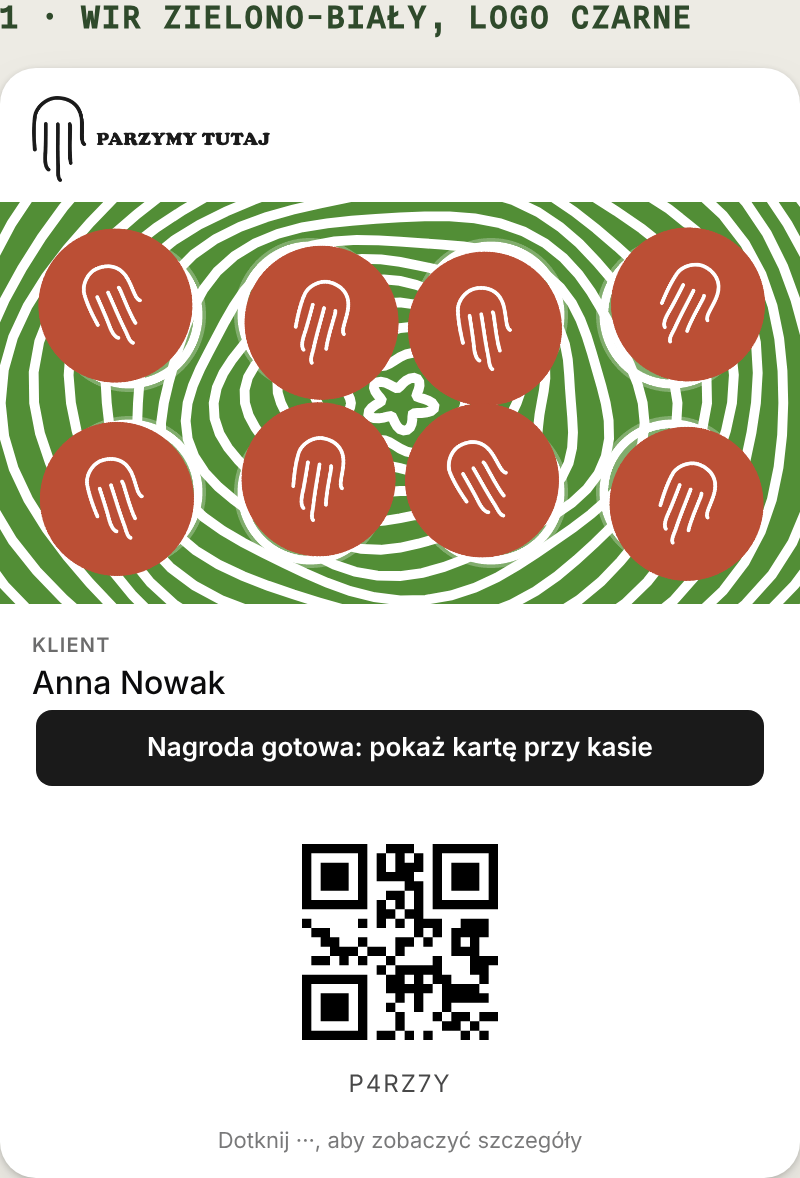
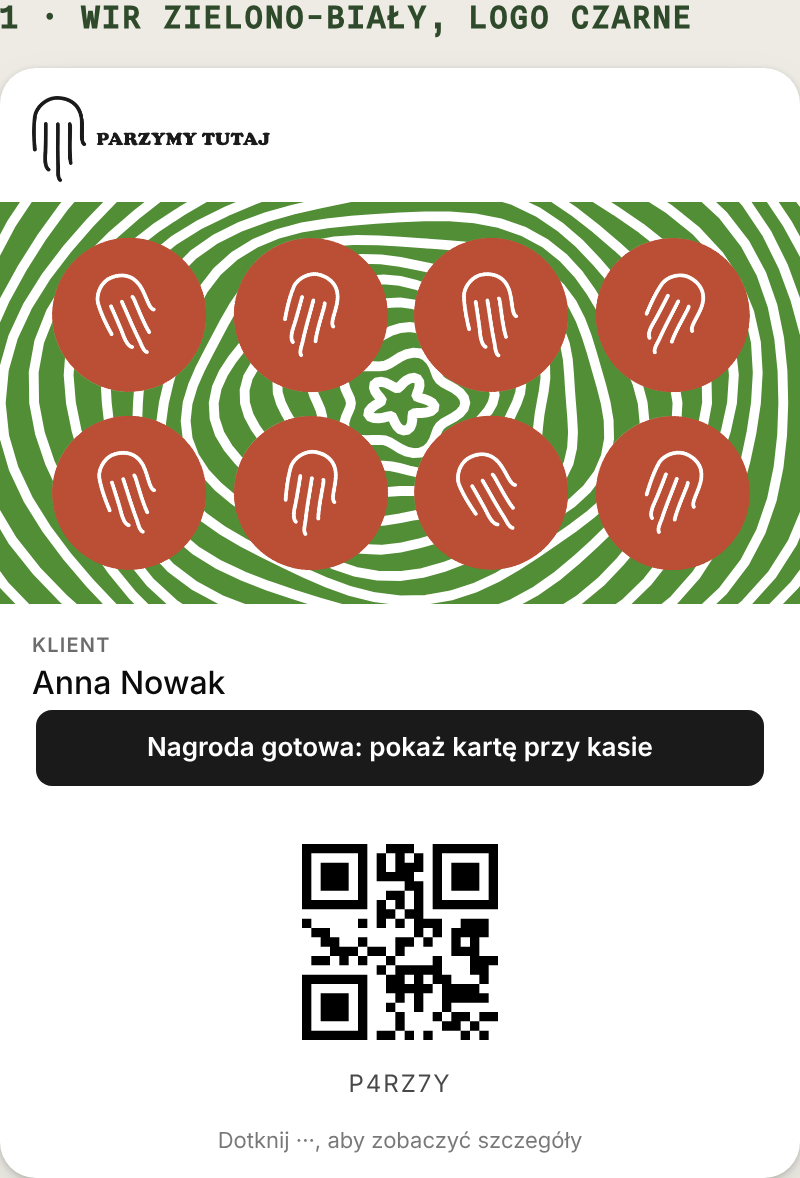
Stamps can stay centred on their box (noShift); Parzymy card set to 8 stamps
Claude-Session: https://claude.ai/code/session_01P7jvwC9jL6ipCqqXJiCoo9

Changed region(s): [[0.0312, 0.1834, 0.9688, 0.5195], [0.9062, 0.3667, 0.9375, 0.3973]]

diff --git a/assets/js/ui.js b/assets/js/ui.js
@@ -66,6 +66,7 @@
   // The picture a stamp prints: the café's own artwork, else one of the standard stamps in its ink.
   const stampArt = (card, look = lookOf(card)) => card.stampImage || (look.stamp ? STAMPS.dataUrl(look.stamp, card.ink || '#2B32FF') : '');
   // An empty box: the stamp's own empty drawing (the dot's circle), else a faint print of the stamp.
+  // noShift: stamps only turn a little, they stay centred on their box.
   // A card can bring its own picture for empty boxes (emptyImage), e.g. plain white circles on a photo.
   const stampEmpty = (card, look = lookOf(card)) => card.emptyImage ? { src: card.emptyImage, cls: 'st-own' } : !card.stampImage && look.stamp && STAMPS.hasEmpty(look.stamp)
     ? { src: STAMPS.dataUrl(look.stamp, card.ink || '#2B32FF', true), cls: 'st-empty' }
@@ -100,7 +101,7 @@
       const on = i < have;
       // Empty boxes show a faint print of the same stamp, waiting to be inked.
       dots += art && card.emptyImage
-        ? `<span class="wp-dot s-art s-box${on ? ' on' : ''}${opts.pop === i ? ' pop' : ''}"><img src="${esc(card.emptyImage)}" alt="" class="st-own">${on ? `<img src="${esc(art)}" alt="" class="st-in" style="transform:translate(${JITTER[i][0]}%,${JITTER[i][1]}%) rotate(${ANGLES[i] * 3}deg)">` : ''}</span>`
+        ? `<span class="wp-dot s-art s-box${on ? ' on' : ''}${opts.pop === i ? ' pop' : ''}"><img src="${esc(card.emptyImage)}" alt="" class="st-own">${on ? `<img src="${esc(art)}" alt="" class="st-in" style="transform:translate(${card.noShift ? 0 : JITTER[i][0]}%,${card.noShift ? 0 : JITTER[i][1]}%) rotate(${ANGLES[i] * 3}deg)">` : ''}</span>`
         : art
         ? `<span class="wp-dot s-art${on ? ' on' : ''}${opts.pop === i ? ' pop' : ''}" style="--r:${ANGLES[i]}deg"><img src="${esc(on ? art : off.src)}" alt=""${on ? '' : ` class="${off.cls}"`}></span>`
         : `<span class="wp-dot s-${look.shape} e-${look.empty}${on ? ' on' : ''}${opts.pop === i ? ' pop' : ''}" style="--r:${ANGLES[i]}deg">${on ? markHtml : ''}</span>`;

diff --git a/print/parzymy-logo-board.html b/print/parzymy-logo-board.html
@@ -39,7 +39,7 @@ body{margin:0;background:#EDEBE4}
   };
   const MARK = '<path d="M27 74 V43 C27 14 73 14 73 43 V66 Q73 71 77 73"/><path d="M40 46 V87"/><path d="M50 46 V96"/><path d="M60 46 V80"/>';
   const mk = svgUrl(`<svg xmlns="http://www.w3.org/2000/svg" viewBox="0 0 100 100"><circle cx="50" cy="50" r="42" fill="${R}"/><g transform="translate(26 22) scale(.48)" fill="none" stroke="${W}" stroke-width="8" stroke-linecap="round" stroke-linejoin="round">${MARK}</g></svg>`);
-  const base = { id: 'parzymy', business: 'Parzymy Tutaj', title: 'Karta kawowa', reward: 'kawa gratis', titleEn: 'Coffee card', rewardEn: 'a free coffee', stampsNeeded: 8, lang: 'pl', font: 'sans', hideReward: true, hideCount: true, emptyImage: 'kit-parzymy/pusta-pieczatka-parzymy.png', color: W, ink: '#1A1A1A', strip: G, stripImage: swirl(G, W), stampImage: mk };
+  const base = { id: 'parzymy', business: 'Parzymy Tutaj', title: 'Karta kawowa', reward: 'kawa gratis', titleEn: 'Coffee card', rewardEn: 'a free coffee', stampsNeeded: 8, lang: 'pl', font: 'sans', hideReward: true, hideCount: true, noShift: true, emptyImage: 'kit-parzymy/pusta-pieczatka-parzymy.png', color: W, ink: '#1A1A1A', strip: G, stripImage: swirl(G, W), stampImage: mk };
   const who = { id: 'P4RZ7Y', name: 'Anna Nowak', stamps: +(new URLSearchParams(location.search).get('s') || 3) };
   const card1 = { ...base, logo: 'kit-parzymy/logo-parzymy-black-wide.png', stampImage: 'kit-parzymy/pieczatka-parzymy.png' };
   const mkBlue = svgUrl(`<svg xmlns="http://www.w3.org/2000/svg" viewBox="0 0 100 100"><circle cx="50" cy="50" r="42" fill="#BB4F35"/><g transform="translate(26 22) scale(.48)" fill="none" stroke="${W}" stroke-width="8" stroke-linecap="round" stroke-linejoin="round">${MARK}</g></svg>`);

diff --git a/wallet/images.js b/wallet/images.js
@@ -68,7 +68,7 @@ export async function strip(card, have, { w = 375, h = 123, scale = 1 } = {}) {
     const box = artData(card.emptyImage);
     if (box) {   // the box stays under the stamp, which lands a little off-centre
       const img = `<image href="${box}" x="${x}" y="${y}" width="${d}" height="${d}" preserveAspectRatio="xMidYMid meet"/>`;
-      const dx = JITTER[i][0] / 100 * d, dy = JITTER[i][1] / 100 * d;
+      const dx = card.noShift ? 0 : JITTER[i][0] / 100 * d, dy = card.noShift ? 0 : JITTER[i][1] / 100 * d;
       out += img + (i < have ? `<g transform="translate(${dx} ${dy}) rotate(${ANGLES[i] * 3} ${x + d / 2} ${y + d / 2})">${stampAt(card, ink, x, y, d)}</g>` : '');
       continue;
     }
